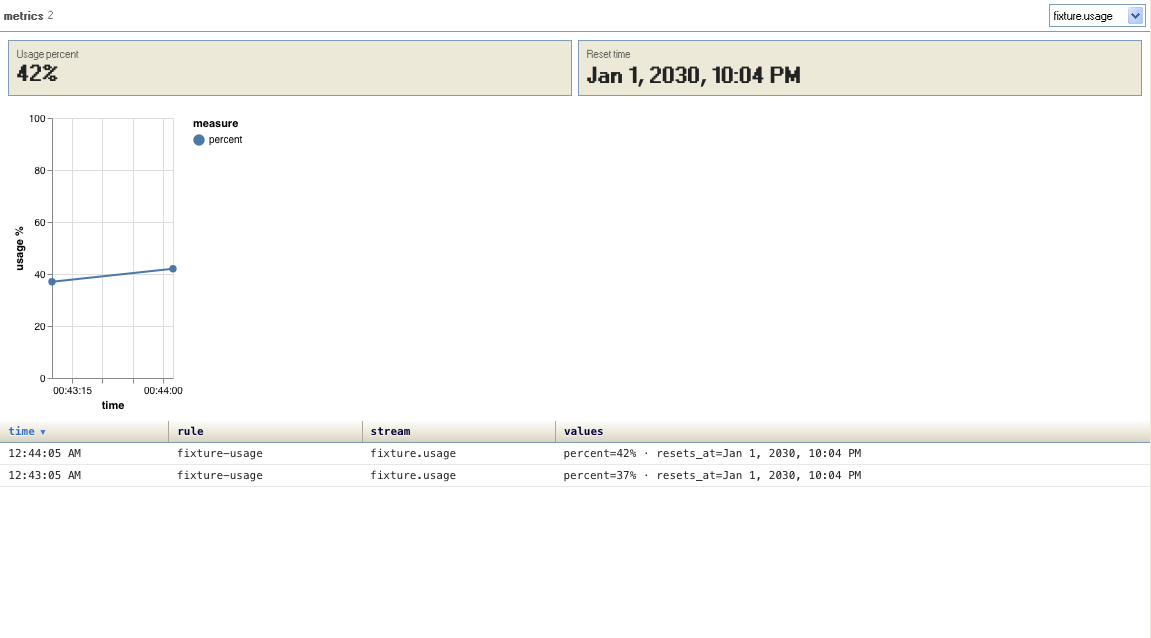
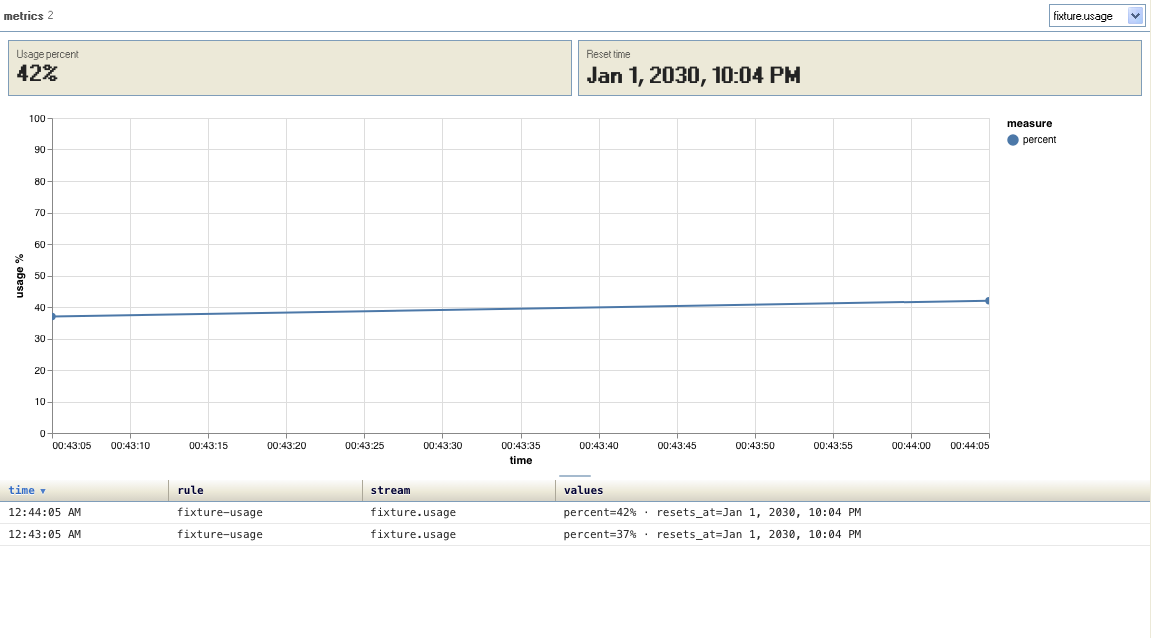
Add interactive resizable metrics charts
Add Vega-Lite scale navigation and legend selection, responsive chart rendering, persisted chart/history split sizing, render diagnostics, documentation, and deterministic unit and browser coverage.

Directed by: Chris specified interactive and resizable Vega charts, modular plugin interfaces, persisted pane layout, and golden browser verification.
Implemented by: Codex -- extracted the chart specification and split layout modules, wired responsive rendering and diagnostics, and added unit, resize, and screenshot coverage.

diff --git a/src/plugins/metrics/1_dashboard.tsx b/src/plugins/metrics/1_dashboard.tsx
@@ -5,6 +5,8 @@ import { TreeTable, type TreeColumn } from "../../treetable";
 import type { JsonSchema } from "../../rulesModel";
 import type { State } from "../../lib/json-rx/0_types";
 import type { MetricMatch, MetricPoint } from "./0_types";
+import { metricChartSpec } from "./0a_chart";
+import { MetricsSplit } from "./0b_layout";
 import { createMetricsDashboardState } from "./2_runtime";
 
 const LIMIT = 500;
@@ -37,7 +39,7 @@ function points(rows: MetricMatch[], schema?: JsonSchema): MetricPoint[] {
     row.matches.flatMap((match) =>
       Object.entries(match)
         .filter((entry): entry is [string, number] => numeric(entry[1]) && isPercentMetric(entry[0], schema?.properties?.[entry[0]]))
-        .map(([field, value]) => ({ ts: row.ts, field, value })),
+        .map(([field, value]) => ({ ts: row.ts, field, value, ruleId: row.ruleId, url: row.url })),
     ),
   );
 }
@@ -76,42 +78,57 @@ const HISTORY_COLUMNS: TreeColumn<MetricMatch & { key: string }>[] = [
 
 function MetricChart({ data }: { data: MetricPoint[] }) {
   const host = useRef<HTMLDivElement>(null);
-  const [width, setWidth] = useState(0);
+  const [size, setSize] = useState({ width: 0, height: 0 });
+  const [renderState, setRenderState] = useState<"loading" | "ready" | "error">("loading");
+  const [renderError, setRenderError] = useState("");
   useEffect(() => {
     const element = host.current;
     if (!element) return;
-    const observer = new ResizeObserver(([entry]) => setWidth(Math.floor(entry.contentRect.width)));
+    const observer = new ResizeObserver(([entry]) => {
+      const next = {
+        width: Math.floor(entry.contentRect.width),
+        height: Math.floor(entry.contentRect.height),
+      };
+      setSize((current) => current.width === next.width && current.height === next.height ? current : next);
+    });
     observer.observe(element);
     return () => observer.disconnect();
   }, []);
   useEffect(() => {
-    if (!host.current || !data.length || width < 1) return;
+    if (!host.current || !data.length || size.width < 1 || size.height < 1) return;
+    let active = true;
     let view: { finalize: () => void } | undefined;
-    embed(host.current, {
-      $schema: "https://vega.github.io/schema/vega-lite/v5.json",
-      width: Math.max(240, width - 80),
-      height: 260,
-      autosize: { type: "fit-x", contains: "padding" },
-      data: { values: data },
-      mark: { type: "line", point: { filled: true, size: 55 } },
-      encoding: {
-        x: { field: "ts", type: "temporal", title: "time", axis: { format: "%H:%M:%S", labelAngle: 0 } },
-        y: { field: "value", type: "quantitative", title: "usage %", scale: { domain: [0, 100] } },
-        color: { field: "field", type: "nominal", title: "measure" },
-        tooltip: [
-          { field: "ts", type: "temporal", title: "time" },
-          { field: "field", type: "nominal", title: "measure" },
-          { field: "value", type: "quantitative", title: "usage", format: ".2f" },
-        ],
-      },
-    }, { actions: false }).then((result) => {
+    setRenderState("loading");
+    setRenderError("");
+    embed(host.current, metricChartSpec(data, size.width, size.height), { actions: false }).then((result) => {
+      if (!active) {
+        result.view.finalize();
+        return;
+      }
       view = result.view;
-    }).catch(console.error);
+      setRenderState("ready");
+    }).catch((error: unknown) => {
+      if (!active) return;
+      const message = error instanceof Error ? error.message : String(error);
+      console.error(error);
+      setRenderError(message);
+      setRenderState("error");
+    });
     return () => {
+      active = false;
       view?.finalize();
     };
-  }, [data, width]);
-  return <div ref={host} className="metrics-chart" />;
+  }, [data, size]);
+  return (
+    <div
+      ref={host}
+      className="metrics-chart"
+      data-testid="metrics-chart"
+      data-render-state={renderState}
+      data-render-error={renderError || undefined}
+      style={{ width: "100%", height: "100%", minHeight: 0, boxSizing: "border-box" }}
+    />
+  );
 }
 
 export function MetricsDashboardPanel() {
@@ -148,11 +165,15 @@ export function MetricsDashboardPanel() {
           </select>
         ) : <span className="wt-count">no stream</span>}
       </div>
-      <div className="panel-scroll">
+      <div style={{ flex: "1 1 auto", minHeight: 0, display: "flex", flexDirection: "column", overflow: "hidden" }}>
         {latest && schema ? <MetricCards row={latest} schema={schema} /> : <div className="session-empty">{dashboardState.error ? String(dashboardState.error) : "no emitted metrics"}</div>}
-        {chartData.length ? <MetricChart data={chartData} /> : null}
-        {data.length ? (
-          <TreeTable columns={HISTORY_COLUMNS} data={data} getRowId={(row) => row.key} defaultSorting={[{ id: "time", desc: true }]} />
+        {chartData.length || data.length ? (
+          <MetricsSplit
+            chart={chartData.length ? <MetricChart data={chartData} /> : <div className="session-empty">no chartable values</div>}
+            history={data.length ? (
+              <TreeTable columns={HISTORY_COLUMNS} data={data} getRowId={(row) => row.key} defaultSorting={[{ id: "time", desc: true }]} />
+            ) : null}
+          />
         ) : null}
       </div>
     </div>

diff --git a/src/plugins/metrics/0a_chart.test.ts b/src/plugins/metrics/0a_chart.test.ts
@@ -1,0 +1,46 @@
+import { describe, expect, test } from "vitest";
+import { metricChartSpec } from "./0a_chart";
+
+describe("metrics Vega-Lite specification", () => {
+  test("declares responsive dimensions and native interaction parameters", () => {
+    const spec = metricChartSpec([], 900, 500) as Record<string, unknown>;
+    expect({
+      width: spec.width,
+      height: spec.height,
+      autosize: spec.autosize,
+      params: spec.params,
+    }).toMatchInlineSnapshot(`
+      {
+        "autosize": {
+          "contains": "padding",
+          "resize": true,
+          "type": "fit-x",
+        },
+        "height": 455,
+        "params": [
+          {
+            "bind": "scales",
+            "name": "timeZoom",
+            "select": {
+              "encodings": [
+                "x",
+              ],
+              "type": "interval",
+            },
+          },
+          {
+            "bind": "legend",
+            "name": "visibleSeries",
+            "select": {
+              "fields": [
+                "field",
+              ],
+              "type": "point",
+            },
+          },
+        ],
+        "width": 820,
+      }
+    `);
+  });
+});

diff --git a/src/plugins/metrics/0b_layout.tsx b/src/plugins/metrics/0b_layout.tsx
@@ -1,0 +1,46 @@
+import { useMemo, useRef, type ReactNode } from "react";
+import { Panel, PanelGroup, PanelResizeHandle } from "react-resizable-panels";
+import { readPluginState, savePluginState } from "../../pluginState";
+
+interface MetricsUi {
+  layout: number[];
+}
+
+export interface MetricsSplitProps {
+  chart: ReactNode;
+  history: ReactNode;
+}
+
+export function MetricsSplit({ chart, history }: MetricsSplitProps) {
+  const initialLayout = useMemo(
+    () => readPluginState<MetricsUi>("metrics", { layout: [70, 30] }).layout,
+    [],
+  );
+  const latestLayout = useRef(initialLayout);
+  const saveLayout = () => savePluginState<MetricsUi>("metrics", { layout: latestLayout.current });
+
+  return (
+    <PanelGroup
+      direction="vertical"
+      id="metrics-chart-history"
+      style={{ flex: "1 1 auto", minHeight: 0 }}
+      onLayout={(layout) => {
+        latestLayout.current = layout;
+      }}
+    >
+      <Panel id="metrics-chart-panel" defaultSize={initialLayout[0]} minSize={25}>
+        {chart}
+      </Panel>
+      <PanelResizeHandle
+        className="meme-sash meme-sash-horizontal"
+        onDragging={(dragging) => {
+          if (!dragging) saveLayout();
+        }}
+        onBlur={saveLayout}
+      />
+      <Panel id="metrics-history-panel" defaultSize={initialLayout[1]} minSize={18}>
+        {history}
+      </Panel>
+    </PanelGroup>
+  );
+}

diff --git a/src/plugins/metrics/0a_chart.ts b/src/plugins/metrics/0a_chart.ts
@@ -1,0 +1,41 @@
+import type { VisualizationSpec } from "vega-embed";
+import type { MetricPoint } from "./0_types";
+
+export function metricChartSpec(data: MetricPoint[], width: number, height: number): VisualizationSpec {
+  return {
+    $schema: "https://vega.github.io/schema/vega-lite/v5.json",
+    width: Math.max(240, width - 80),
+    height: Math.max(140, height - 45),
+    autosize: { type: "fit-x", contains: "padding", resize: true },
+    data: { values: data },
+    params: [
+      {
+        name: "timeZoom",
+        select: {
+          type: "interval",
+          encodings: ["x"],
+        },
+        bind: "scales",
+      },
+      {
+        name: "visibleSeries",
+        select: { type: "point", fields: ["field"] },
+        bind: "legend",
+      },
+    ],
+    mark: { type: "line", point: { filled: true, size: 55 }, clip: true },
+    encoding: {
+      x: { field: "ts", type: "temporal", title: "time", axis: { format: "%H:%M:%S", labelAngle: 0 } },
+      y: { field: "value", type: "quantitative", title: "usage %", scale: { domain: [0, 100] } },
+      color: { field: "field", type: "nominal", title: "measure" },
+      opacity: { condition: { param: "visibleSeries", value: 1 }, value: 0.15 },
+      tooltip: [
+        { field: "ts", type: "temporal", title: "time" },
+        { field: "field", type: "nominal", title: "measure" },
+        { field: "value", type: "quantitative", title: "usage", format: ".2f" },
+        { field: "ruleId", type: "nominal", title: "rule" },
+        { field: "url", type: "nominal", title: "source" },
+      ],
+    },
+  };
+}

diff --git a/e2e/metrics-dashboard.spec.ts b/e2e/metrics-dashboard.spec.ts
@@ -45,5 +45,35 @@ test("JSON-Rx dashboard renders captured metric data", async ({ page }) => {
   await expect(dashboard).toContainText("Usage percent");
   await expect(dashboard).toContainText("42%");
   await expect(dashboard).toContainText("fixture-usage");
+  const chart = page.getByTestId("metrics-chart");
+  await expect(chart).toHaveAttribute("data-render-state", "ready");
+  const renderedChart = await chart.evaluate((host) => {
+    const view = host.querySelector("canvas, svg");
+    return {
+      host: host.getBoundingClientRect().toJSON(),
+      view: view?.getBoundingClientRect().toJSON(),
+    };
+  });
+  expect(renderedChart.host.width).toBeGreaterThan(900);
+  expect(renderedChart.view?.width).toBeGreaterThan(700);
+  expect(renderedChart.view?.height).toBeGreaterThan(200);
   await expect(dashboard).toHaveScreenshot("metrics-dashboard.png", { animations: "disabled" });
+
+  const handle = dashboard.locator(".meme-sash-horizontal");
+  const chartPanel = dashboard.locator('[data-panel-id="metrics-chart-panel"]');
+  const historyPanel = dashboard.locator('[data-panel-id="metrics-history-panel"]');
+  const chartBefore = await chartPanel.boundingBox();
+  const historyBefore = await historyPanel.boundingBox();
+  const handleBox = await handle.boundingBox();
+  expect(chartBefore).not.toBeNull();
+  expect(historyBefore).not.toBeNull();
+  expect(handleBox).not.toBeNull();
+  await page.mouse.move(handleBox!.x + handleBox!.width / 2, handleBox!.y + handleBox!.height / 2);
+  await page.mouse.down();
+  await page.mouse.move(handleBox!.x + handleBox!.width / 2, handleBox!.y - 80);
+  await page.mouse.up();
+  const chartAfter = await chartPanel.boundingBox();
+  const historyAfter = await historyPanel.boundingBox();
+  expect(chartAfter!.height).toBeLessThan(chartBefore!.height - 40);
+  expect(historyAfter!.height).toBeGreaterThan(historyBefore!.height + 40);
 });

diff --git a/src/plugins/metrics/0_types.ts b/src/plugins/metrics/0_types.ts
@@ -13,4 +13,6 @@ export interface MetricPoint {
   ts: number;
   field: string;
   value: number;
+  ruleId: string;
+  url: string;
 }

diff --git a/src/plugins/metrics/README.md b/src/plugins/metrics/README.md
@@ -50,6 +50,32 @@ second chart grammar. A later rule field can carry a complete Vega-Lite spec or
 a named spec reference when inferred rendering cannot represent a dashboard.
 The record data remains governed by JSON Schema.
 
+The current chart interaction contract uses Vega-Lite selection parameters:
+
+- Drag the plot horizontally to pan its time scale.
+- Use the mouse wheel over the plot to zoom its time scale.
+- Double-click the plot to clear the interval selection.
+- Select legend entries to isolate series; double-click clears the selection.
+- Drag the horizontal sash to divide space between the chart and history grid.
+
+The chart/history percentage layout is stored in the `metrics` plugin state and
+restored on the next panel mount. Vega receives the measured chart panel width
+and height after every resize.
+
+Implementation boundaries follow dependency and reading order:
+
+| File | Interface |
+| --- | --- |
+| `0_types.ts` | persisted metric and chart-point data shapes |
+| `0a_chart.ts` | pure metric records plus dimensions to Vega-Lite spec |
+| `0b_layout.tsx` | chart/history split and plugin-state persistence |
+| `1_dashboard.tsx` | data formatting and React composition |
+| `2_runtime.ts` | polling and JSON-Rx state transitions |
+
+`MetricChart` publishes `data-render-state` and `data-render-error` on its host
+element. The golden browser test waits for Vega to finish compiling and
+rendering before measuring or capturing the panel.
+
 ## End-to-end call tree
 
 Legend: `->` synchronous call or message, `~>` asynchronous boundary,
@@ -217,8 +243,9 @@ store.
   local page, a real local API request, delayed configuration, extraction, and
   ingest assertions using the Claude response fixture.
 - `e2e/metrics-dashboard.spec.ts` injects the native query result, opens Metrics
-  through the Rules child rail item, checks semantic values, and records the
-  golden dashboard screenshot.
+  through the Rules child rail item, waits for Vega rendering, checks semantic
+  and rendered dimensions, records the golden dashboard screenshot, and drags
+  the chart/history split.
 - `src/lib/json-rx/*.test.ts` covers state updates, machine scans, partitioned
   instances, catalogs, and expression traces.
 